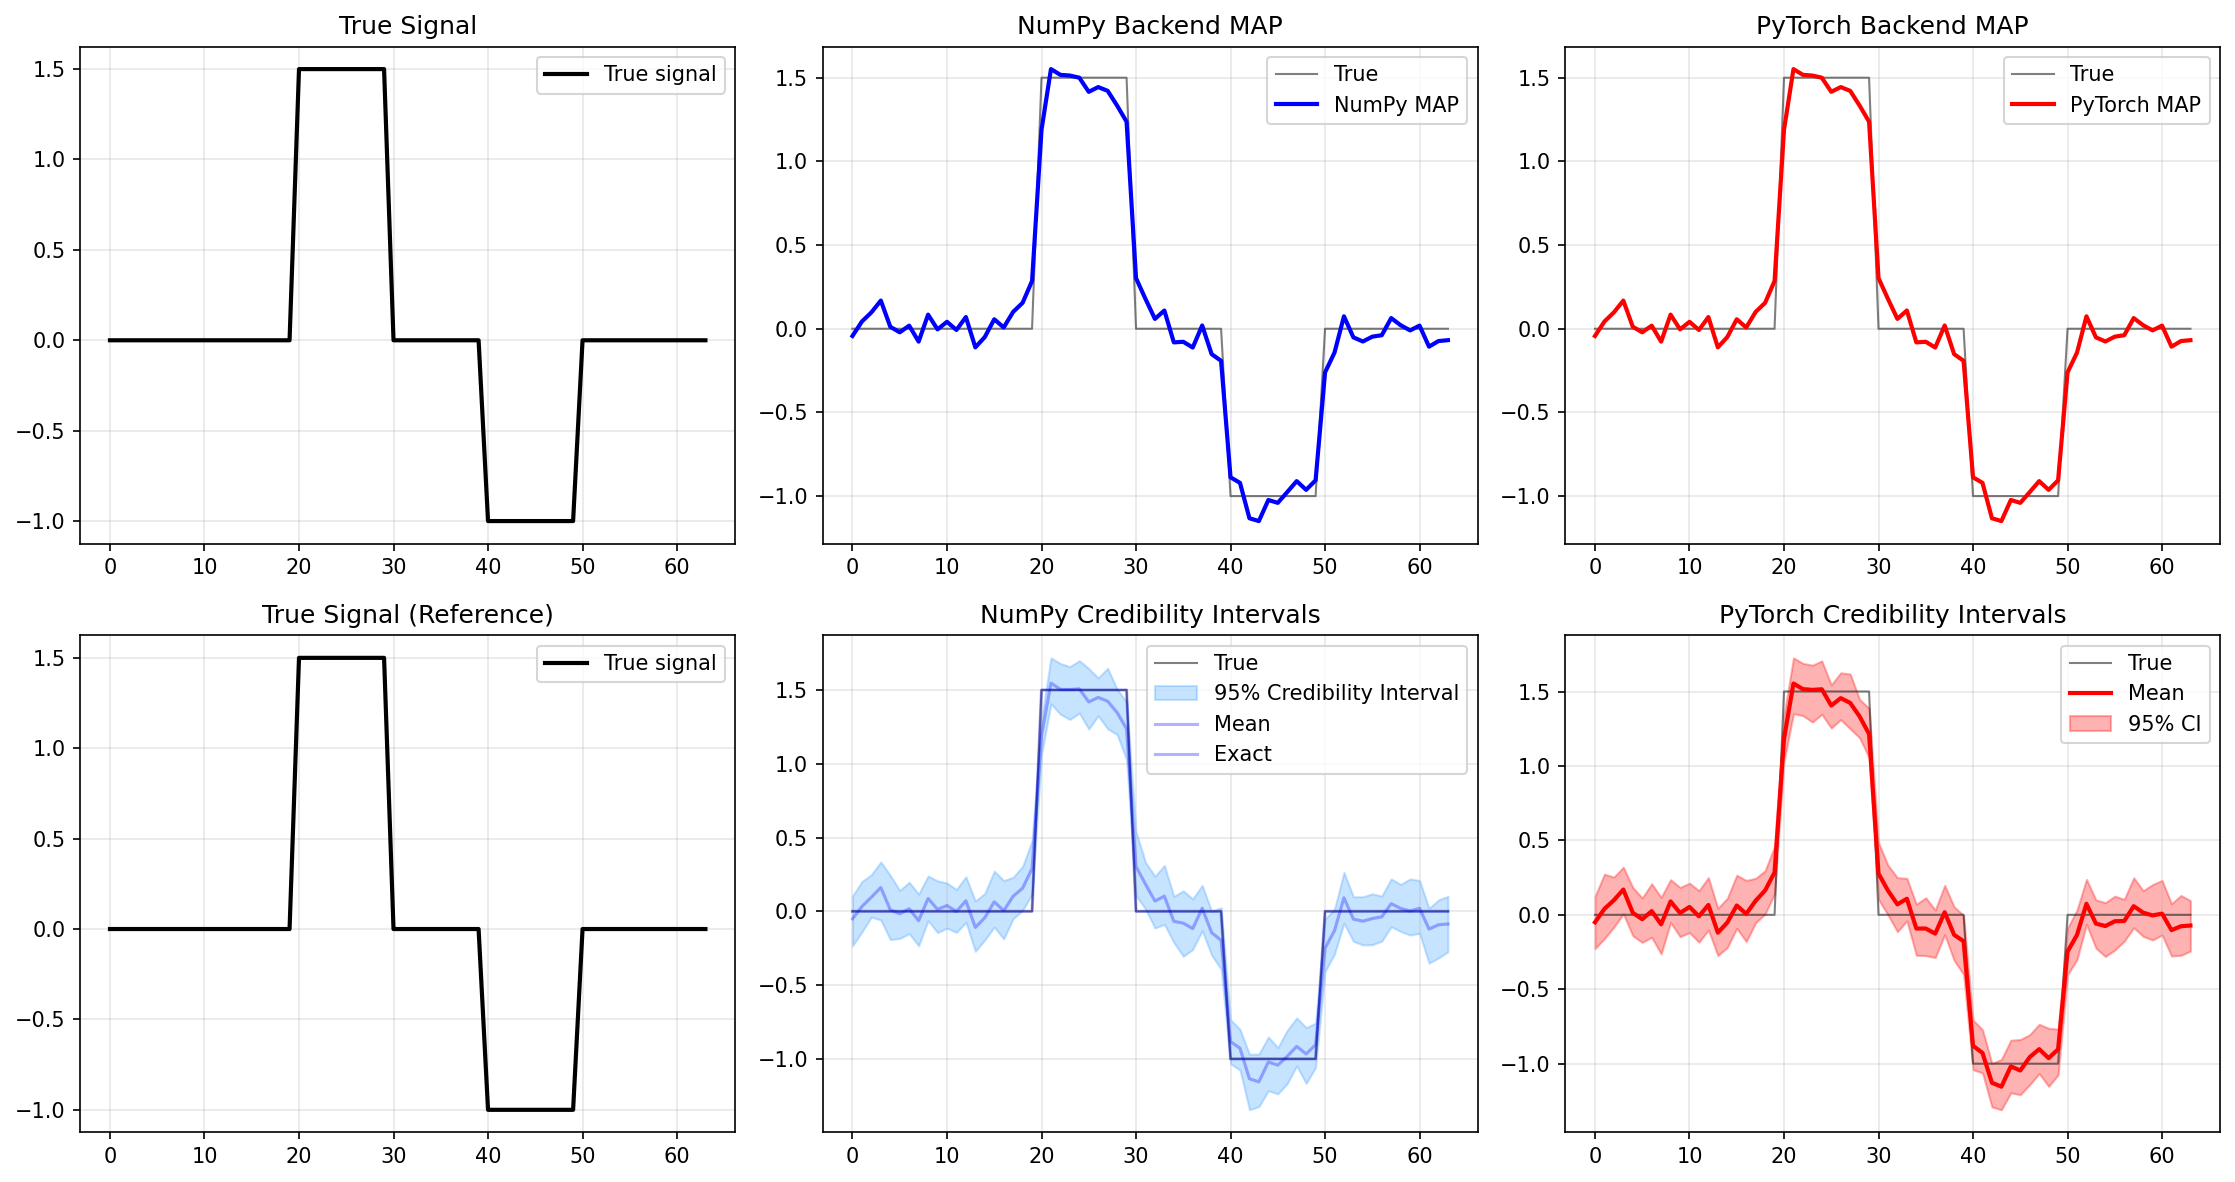
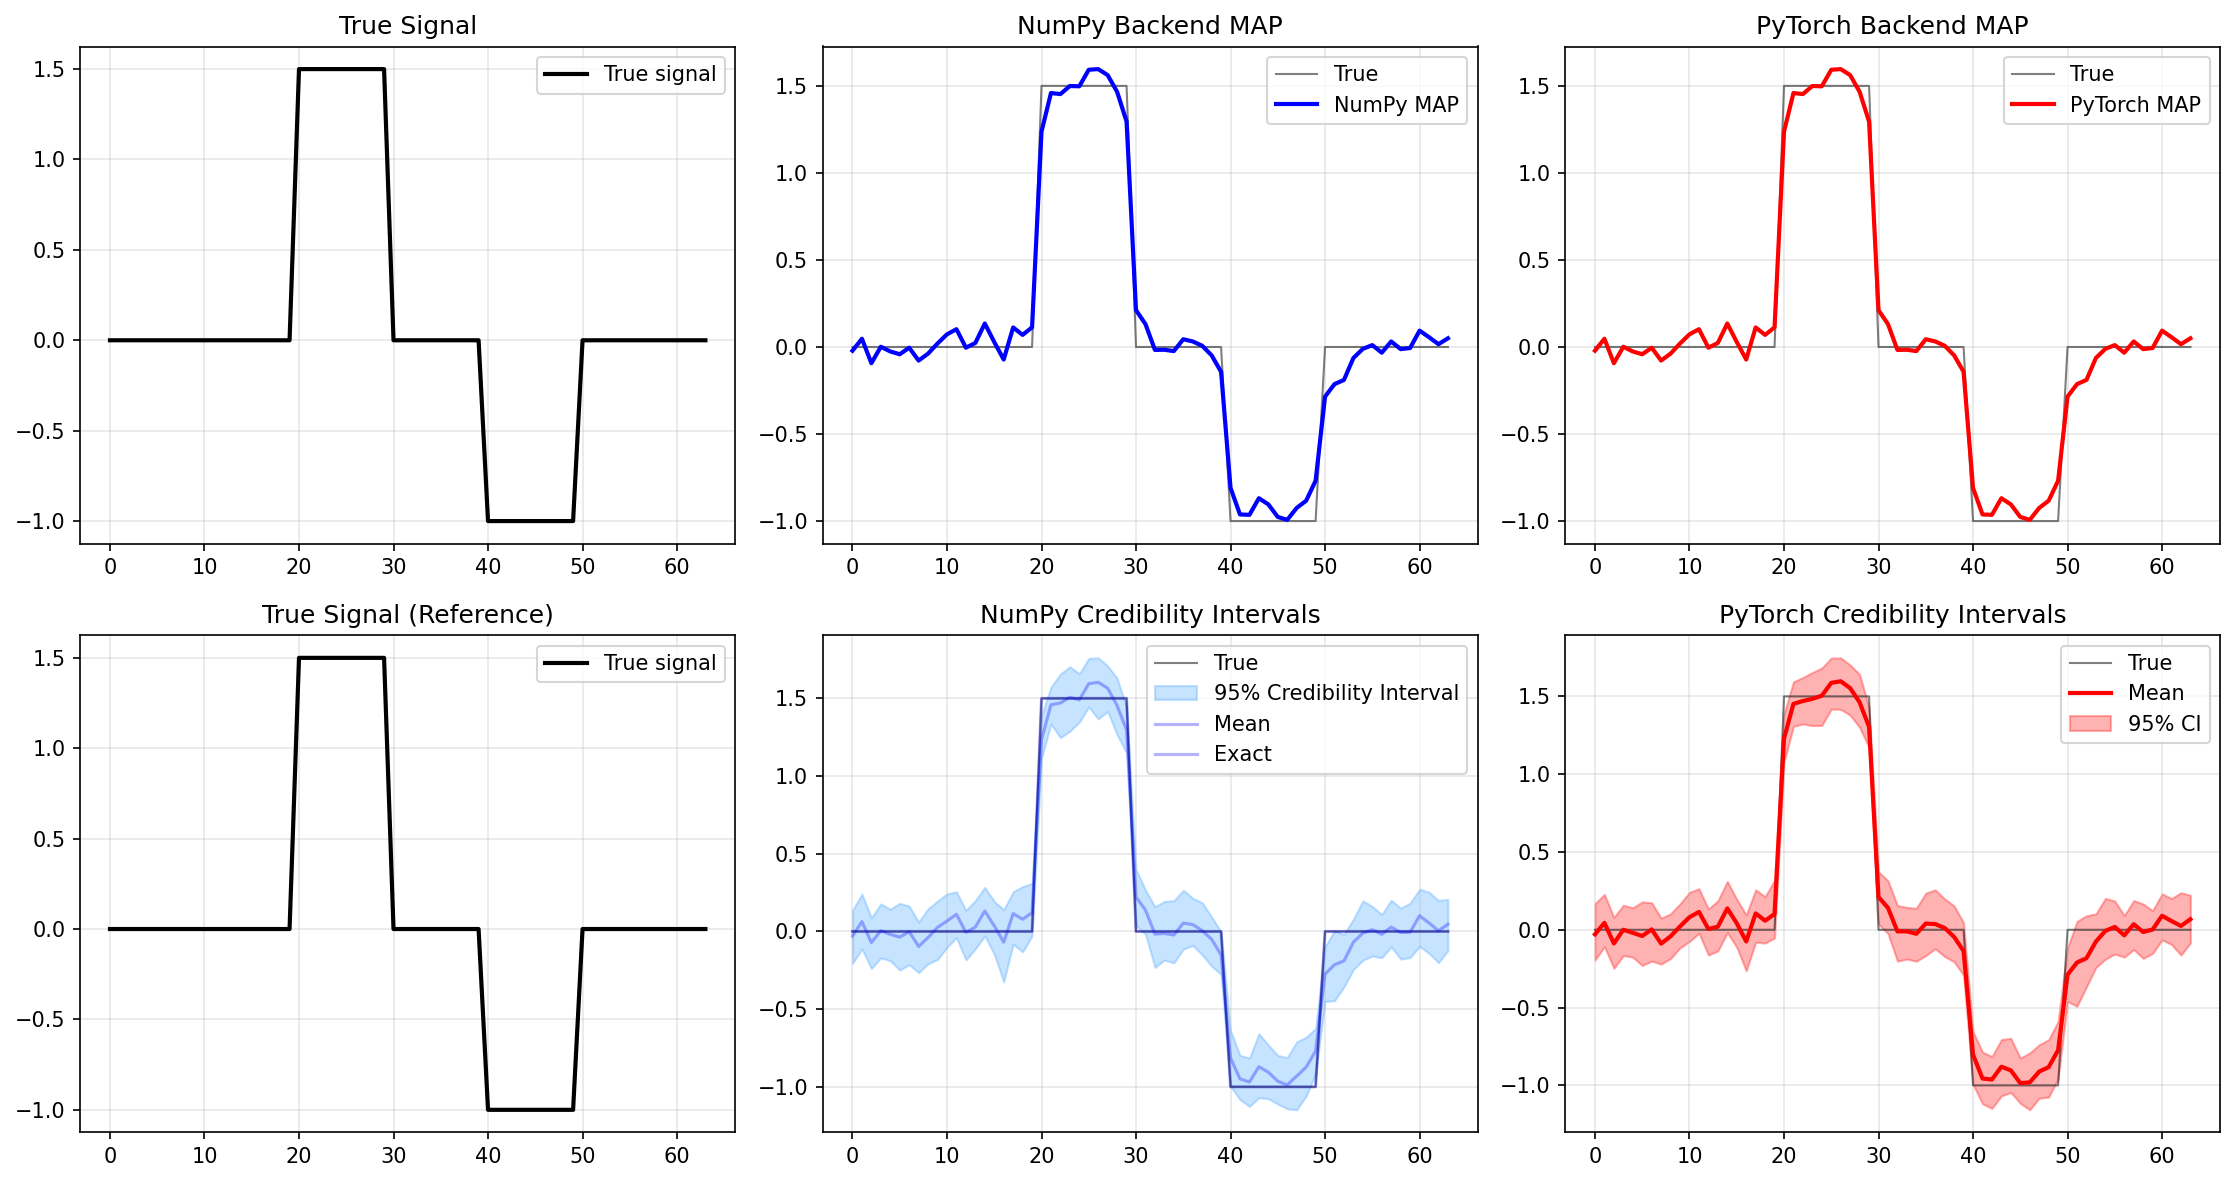
Implement proper backend-agnostic sparse matrix operations
- Add BackendSparseMatrix wrapper class for scipy sparse matrices
- Provides consistent interface across NumPy and PyTorch backends
- Handles scalar/array multiplication, transpose, diagonal operations
- Implements proper __matmul__ and __rmatmul__ for matrix operations
- Update sparse_cholesky to return BackendSparseMatrix
- Fix GMRF sqrtprec and sqrtprecTimesMean properties
- Remove lazy NumPy conversions - proper PyTorch support throughout
- LinearRTO sampler now works correctly with GMRF on both backends

diff --git a/cuqi/utilities/_utilities.py b/cuqi/utilities/_utilities.py
@@ -11,6 +11,119 @@ import copy
 import matplotlib.pyplot as plt
 
 
+class BackendSparseMatrix:
+    """Backend-agnostic wrapper for sparse matrices that provides consistent interface across NumPy and PyTorch backends."""
+    
+    def __init__(self, scipy_sparse_matrix):
+        """Initialize with a scipy sparse matrix."""
+        self._scipy_matrix = scipy_sparse_matrix
+        
+    @property
+    def T(self):
+        """Transpose of the sparse matrix."""
+        return BackendSparseMatrix(self._scipy_matrix.T)
+    
+    def diagonal(self):
+        """Get diagonal elements of the sparse matrix."""
+        import cuqi.array as xp
+        diag_elements = self._scipy_matrix.diagonal()
+        # Convert to current backend
+        return xp.array(diag_elements)
+    
+    def __mul__(self, other):
+        """Multiplication with scalars or arrays."""
+        import cuqi.array as xp
+        import numpy as np
+        
+        if np.isscalar(other):
+            # Scalar multiplication returns another BackendSparseMatrix
+            result = other * self._scipy_matrix
+            return BackendSparseMatrix(result)
+        else:
+            # Array multiplication - return the result as an array
+            if xp.get_backend_name() == "pytorch":
+                # Convert other to numpy for scipy operations
+                if hasattr(other, 'cpu'):  # PyTorch tensor
+                    other_np = xp.to_numpy(other)
+                else:
+                    other_np = other
+                result = self._scipy_matrix @ other_np
+                # Convert back to current backend
+                return xp.array(result)
+            else:
+                # NumPy backend
+                result = self._scipy_matrix @ other
+                return result
+    
+    def __rmul__(self, other):
+        """Right multiplication with scalars or arrays."""
+        import cuqi.array as xp
+        import numpy as np
+        
+        # Check if other is a scalar (including 0-dimensional arrays)
+        if np.isscalar(other) or (hasattr(other, 'ndim') and other.ndim == 0):
+            # Scalar multiplication
+            if hasattr(other, 'item'):  # Extract scalar from 0-dim array/tensor
+                other = other.item()
+            result = other * self._scipy_matrix
+            return BackendSparseMatrix(result)
+        else:
+            # Array multiplication from the left
+            if xp.get_backend_name() == "pytorch":
+                # Convert other to numpy for scipy operations
+                if hasattr(other, 'cpu'):  # PyTorch tensor
+                    other_np = xp.to_numpy(other)
+                else:
+                    other_np = other
+                result = other_np @ self._scipy_matrix
+                # Convert back to current backend
+                return xp.array(result)
+            else:
+                # NumPy backend
+                result = other @ self._scipy_matrix
+                return result
+    
+    def __matmul__(self, other):
+        """Matrix multiplication using @ operator."""
+        import cuqi.array as xp
+        
+        if xp.get_backend_name() == "pytorch":
+            # Convert other to numpy for scipy operations
+            if hasattr(other, 'cpu'):  # PyTorch tensor
+                other_np = xp.to_numpy(other)
+            else:
+                other_np = other
+            result = self._scipy_matrix @ other_np
+            # Convert back to current backend
+            return xp.array(result)
+        else:
+            # NumPy backend
+            result = self._scipy_matrix @ other
+            return result
+    
+    def __rmatmul__(self, other):
+        """Right matrix multiplication using @ operator."""
+        import cuqi.array as xp
+        
+        if xp.get_backend_name() == "pytorch":
+            # Convert other to numpy for scipy operations
+            if hasattr(other, 'cpu'):  # PyTorch tensor
+                other_np = xp.to_numpy(other)
+            else:
+                other_np = other
+            result = other_np @ self._scipy_matrix
+            # Convert back to current backend
+            return xp.array(result)
+        else:
+            # NumPy backend
+            result = other @ self._scipy_matrix
+            return result
+    
+    def get_scipy_matrix(self):
+        """Get the underlying scipy sparse matrix for operations that require it."""
+        return self._scipy_matrix
+
+
 def force_ndarray(value,flatten=False):
     if not isinstance(value, xp.ndarray) and value is not None and not issparse(value) and not callable(value):
         if hasattr(value,'__len__') and len(value)>1:
@@ -144,9 +257,11 @@ class ProblemInfo:
 # work-around to compute sparse Cholesky
 def sparse_cholesky(A):
     """Computes Cholesky factorization for sparse matrix `A` and returns the upper triangular factor `U`, where `A=U^T@U`"""
+    import cuqi.array as xp
+    
+    # Always use scipy for the actual Cholesky computation since it's the most robust
     # https://gist.github.com/omitakahiro/c49e5168d04438c5b20c921b928f1f5d
     LU = spslinalg.splu(A, diag_pivot_thresh=0, permc_spec='natural') # sparse LU decomposition
-
 
     # check the matrix A is positive definite
     # Use numpy arrays for both sides to ensure consistent comparison
@@ -161,7 +276,10 @@ def sparse_cholesky(A):
         diag_check = diag_check.item()
     
     if perm_check and diag_check: 
-        return (LU.L @ (diags(LU.U.diagonal()**0.5))).T
+        chol_factor = (LU.L @ (diags(LU.U.diagonal()**0.5))).T
+        
+        # Return a backend-agnostic sparse matrix wrapper
+        return BackendSparseMatrix(chol_factor)
     else:
         raise TypeError('The matrix is not positive semi-definite')
 

diff --git a/cuqi/distribution/_gmrf.py b/cuqi/distribution/_gmrf.py
@@ -192,9 +192,9 @@ class GMRF(Distribution):
                 xi = xp.random.randn(self.dim, N)   # standard Gaussian
 
             if N == 1:
-                s = self.mean + (1/xp.sqrt(self.prec))*splinalg.spsolve(self._chol.T, xi)
+                s = self.mean + (1/xp.sqrt(self.prec))*splinalg.spsolve(self._chol.T.get_scipy_matrix(), xi)
             else:
-                s = self.mean[:, xp.newaxis] + (1/xp.sqrt(self.prec))*splinalg.spsolve(self._chol.T, xi)
+                s = self.mean[:, xp.newaxis] + (1/xp.sqrt(self.prec))*splinalg.spsolve(self._chol.T.get_scipy_matrix(), xi)
                         
         elif (self._bc_type == 'periodic'):
             
@@ -219,7 +219,7 @@ class GMRF(Distribution):
                 xi = xp.random.randn(self._diff_op.shape[0], N)   # standard Gaussian
 
             s = self.mean[:, xp.newaxis] + (1/xp.sqrt(self.prec))* \
-                splinalg.spsolve(self._chol.T, (splinalg.spsolve(self._chol, (self._diff_op.T @ xi)))) 
+                splinalg.spsolve(self._chol.T.get_scipy_matrix(), (splinalg.spsolve(self._chol.get_scipy_matrix(), (self._diff_op.T @ xi)))) 
         else:
             raise TypeError('Unexpected BC type (choose from zero, periodic, neumann or none)')
 
@@ -227,10 +227,7 @@ class GMRF(Distribution):
     
     @property
     def sqrtprec(self):
-        # Convert sqrt(prec) to numpy for sparse matrix operations
-        import numpy as np
-        sqrt_prec_np = xp.to_numpy(xp.sqrt(self.prec))
-        return sqrt_prec_np * self._chol.T
+        return xp.sqrt(self.prec) * self._chol.T
 
     @property
     def sqrtprecTimesMean(self):
